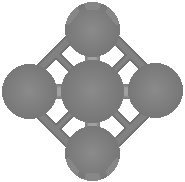
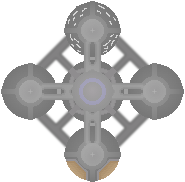
Add files via upload

diff --git a/index.html b/index.html
@@ -39,6 +39,7 @@
 <div style="color:#c9a100;">Q and E | Strafing</div>
 <div style="color:#c9a100;">O and P | Zooming</div>
 <div style="color:#c9a100;">G | Control panel </div>
+<div style="color:#c9a100;">C | Camera mode </div>
 <div style="color:#c9a100;">Z | Percision mode </div>
 <div style="color:#c9a100;">~ | Debug mode </div>
 <hr>
@@ -51,26 +52,25 @@
 <!-- Sky -->
 <img src="DebugEnabled.gif" id="debugIcon" style="z-index:9;position:absolute;top:0%;left:0%;" hidden=true>
 <div class="StarsFront" id="sky" style=" background-image: url('stars.png'); 
-    background-repeat: repeat; 
-    min-height: 100vh; 
+    background-repeat: repeat;  
     border: 0px;
-    background-position: 5px 0px;
-	position: fixed; /* Fixes them to the viewport */
-    top: 0;
-    left: 0;
-    width: 100vw;
-    height: 100vh;
+    background-position: 0px 0px;
+	
+    top: 0%;
+    left: 0%;
     margin: 0;
     padding: 0;
 	 background-Size: 1000px 1000px;
 	 filter: bloom(10);
+	 position:fixed;
+	width: 2000vw;
+    height: 2000vh;
 	 z-index:2;" >
 </div>
-<div class="tiled-background" id="sky" style=" background-image: url('space.png'); 
-    background-repeat: repeat; 
+<div class="tiled-background" style="
     min-height: 100vh; 
     border: 0px;
-    background-position: 5px 0px;
+    background-color: black;
 	position: fixed; /* Fixes them to the viewport */
     top: 0;
     left: 0;
@@ -78,8 +78,6 @@
     height: 100vh;
     margin: 0;
     padding: 0;
-	 background-Size: 1000px 1000px;
-	 filter: bloom(10);
 	 z-index:1;" >
 </div>
 
@@ -170,8 +168,8 @@ var ox3 = 0
 canvas.width = window.innerWidth * 1
 canvas.height = window.innerHeight * 1
 
-var w = canvas.width;
-var h = canvas.height;
+var w = window.innerWidth
+var h = window.innerHeight
 var zoom=5
 var colliding = false
 var commandedSpeed=0
@@ -217,7 +215,7 @@ var rd = false
 var dying=false
 var sx=0
 var sy=0
-const settings={runOutOfView:true,renderDist:w*h,cameraChase:true};
+const settings={runOutOfView:true,renderDist:w*h,cameraChase:true,paused:false};
 var seconds=0
 var qd=false
 function resetSys(sys) {
@@ -397,7 +395,7 @@ fieldX=1000
 fieldY=1000
 fieldRadius=1000
 if(generateField) {
-rndm=random(10,200)
+rndm=random(100,200)
 for (let i = 0; i < rndm; i++) {
 rng=random(0,1)
 if (rng==1){sprite=a3}
@@ -411,8 +409,21 @@ ry=fieldY+Math.cos(random(-1000,1000))*fieldRadius
 entities.push({x:rx,y:ry,w:size,h:size,sprite:sprite,dist:1,type:"astroid",sx:0,sy:0,t:randomT,r:size,visible:true,mass:size/10})
 }
 }
-
-
+// this function puts a number through a very quik sinwave, even though its actually using cos, but im not going to call it a "Coswave" (that actualy sounds cool nvm) resulting in a seemingly random, yet predictable result.
+//"I can't beleive its not Math.random()!"
+function genSV(seed,off,agit) {
+// you dont NEED to set thease but i made it so you have the option to change the cosine rate and more importantly, the offset.
+if (!off){off=0}
+if (!agit){agit=1000000000}
+return Math.abs(((Math.cos(Math.pow(seed+off,2)*agit)*agit))%1)
+}
+function genSV2(min,max,seed,off,agit) {
+if (!off){off=0}
+if (!agit){agit=1000000000}
+  min = Math.ceil(min);
+  max = Math.floor(max);
+  return Math.floor(genSV(seed,off,agit) * (max - min + 1)) + min;
+}
 
 function newExplosion(nx,ny,size,damage) {
 newBoom={x:nx,y:ny,w:64,h:64,sprite:explosionSprite,dist:1,type:"explosion",t:0,sx:0,sy:0,t:0,r:1,visible:false,dmg:damage,maxSize:32}
@@ -664,6 +675,13 @@ py=s1.y
 	 pushMsg("This is the chatBox.")
 function tick() {
 
+
+if (gt%10==9&&w*h!==window.innerWidth*window.innerHeight) {
+ w = window.innerWidth
+ h = window.innerHeight
+ canvas.width=w
+ canvas.height=h
+}
  msgBox.style.opacity = 1-Math.max(1,timeSinceLastMsg/100)+1
  player.dizzy = Math.max(player.dizzy-1,0)
  
@@ -676,11 +694,14 @@ sky.style.filter = `brightness(${player.air}%)`
 skyX=drone.x/10+hoff
 skyY=drone.y/10+hoff
 //Math.cos(drone.t*Math.PI/180)*-getDist(drone.x/10+hoff,drone.y/10+hoff,0,0)
-if (settings.cameraChase){sky.style.transform = `rotate(${(-trueTurn)+"deg"}`;}
+if (settings.cameraChase){sky.style.transform = `rotate(${-trueTurn}deg)`;}
 sky.style.backgroundPosition = `${skyX}px ${skyY}px`;
 
-sky.style.width = String((w+h)*2)+"px"
-sky.style.height = String(h+w)+"px"
+//sky.style.width = String((w+h))+"px"
+//sky.style.height = String((h+w))+"px"
+//sky.style.left = String(-(w+h)/2)+"px"
+//sky.style.top = String(-(w+h)/2)+"px"
+sky.style.transformOrigin=`${w*1.5}px ${h*1.5}px`
 colliding=false
 ticksUntilBoom-=1
 player.hp=Math.min(player.hp+0.0005,100)
@@ -738,6 +759,7 @@ seconds = Math.floor(gt/100)
     
 	 
     setTimeout(() => { 
+	 if (!settings.paused) {
         ctx.clearRect(-100000,-100000,w*1000,h*1000)
 		  const newPosX = ((smoothX - (w / 2)) * -0.025)/zoom
         const newPosY = ((smoothY - (h / 2)) * -0.04)/zoom
@@ -1049,7 +1071,9 @@ offsets=[0,0]
 			}
 			
 			speedDiff=Math.abs((sx-osx)+(sy-osy))
-        tick() 
+			}
+        tick()
+		  
     }, 10);
 }
  function stg(thing) {
@@ -1238,7 +1262,12 @@ turnDisruption=+(((Math.sin(aDir)-0.5)*2)+((Math.cos(aDir)-0.5)*-2))/10
 
 cDir=pointAt(curr.x,curr.y,drone.x,drone.y)
 console.log(cDir)
-if (cDir>-Math.PI/6&&cDir<Math.PI/6) {console.log("AHHHHH")}
+//docking
+if (cDir>-3&&cDir<-2.72&&curr.type=="station"&&extMultiBall) {
+console.log("Initiating docking!")
+settings.paused=true
+
+}
 }
  }
 
